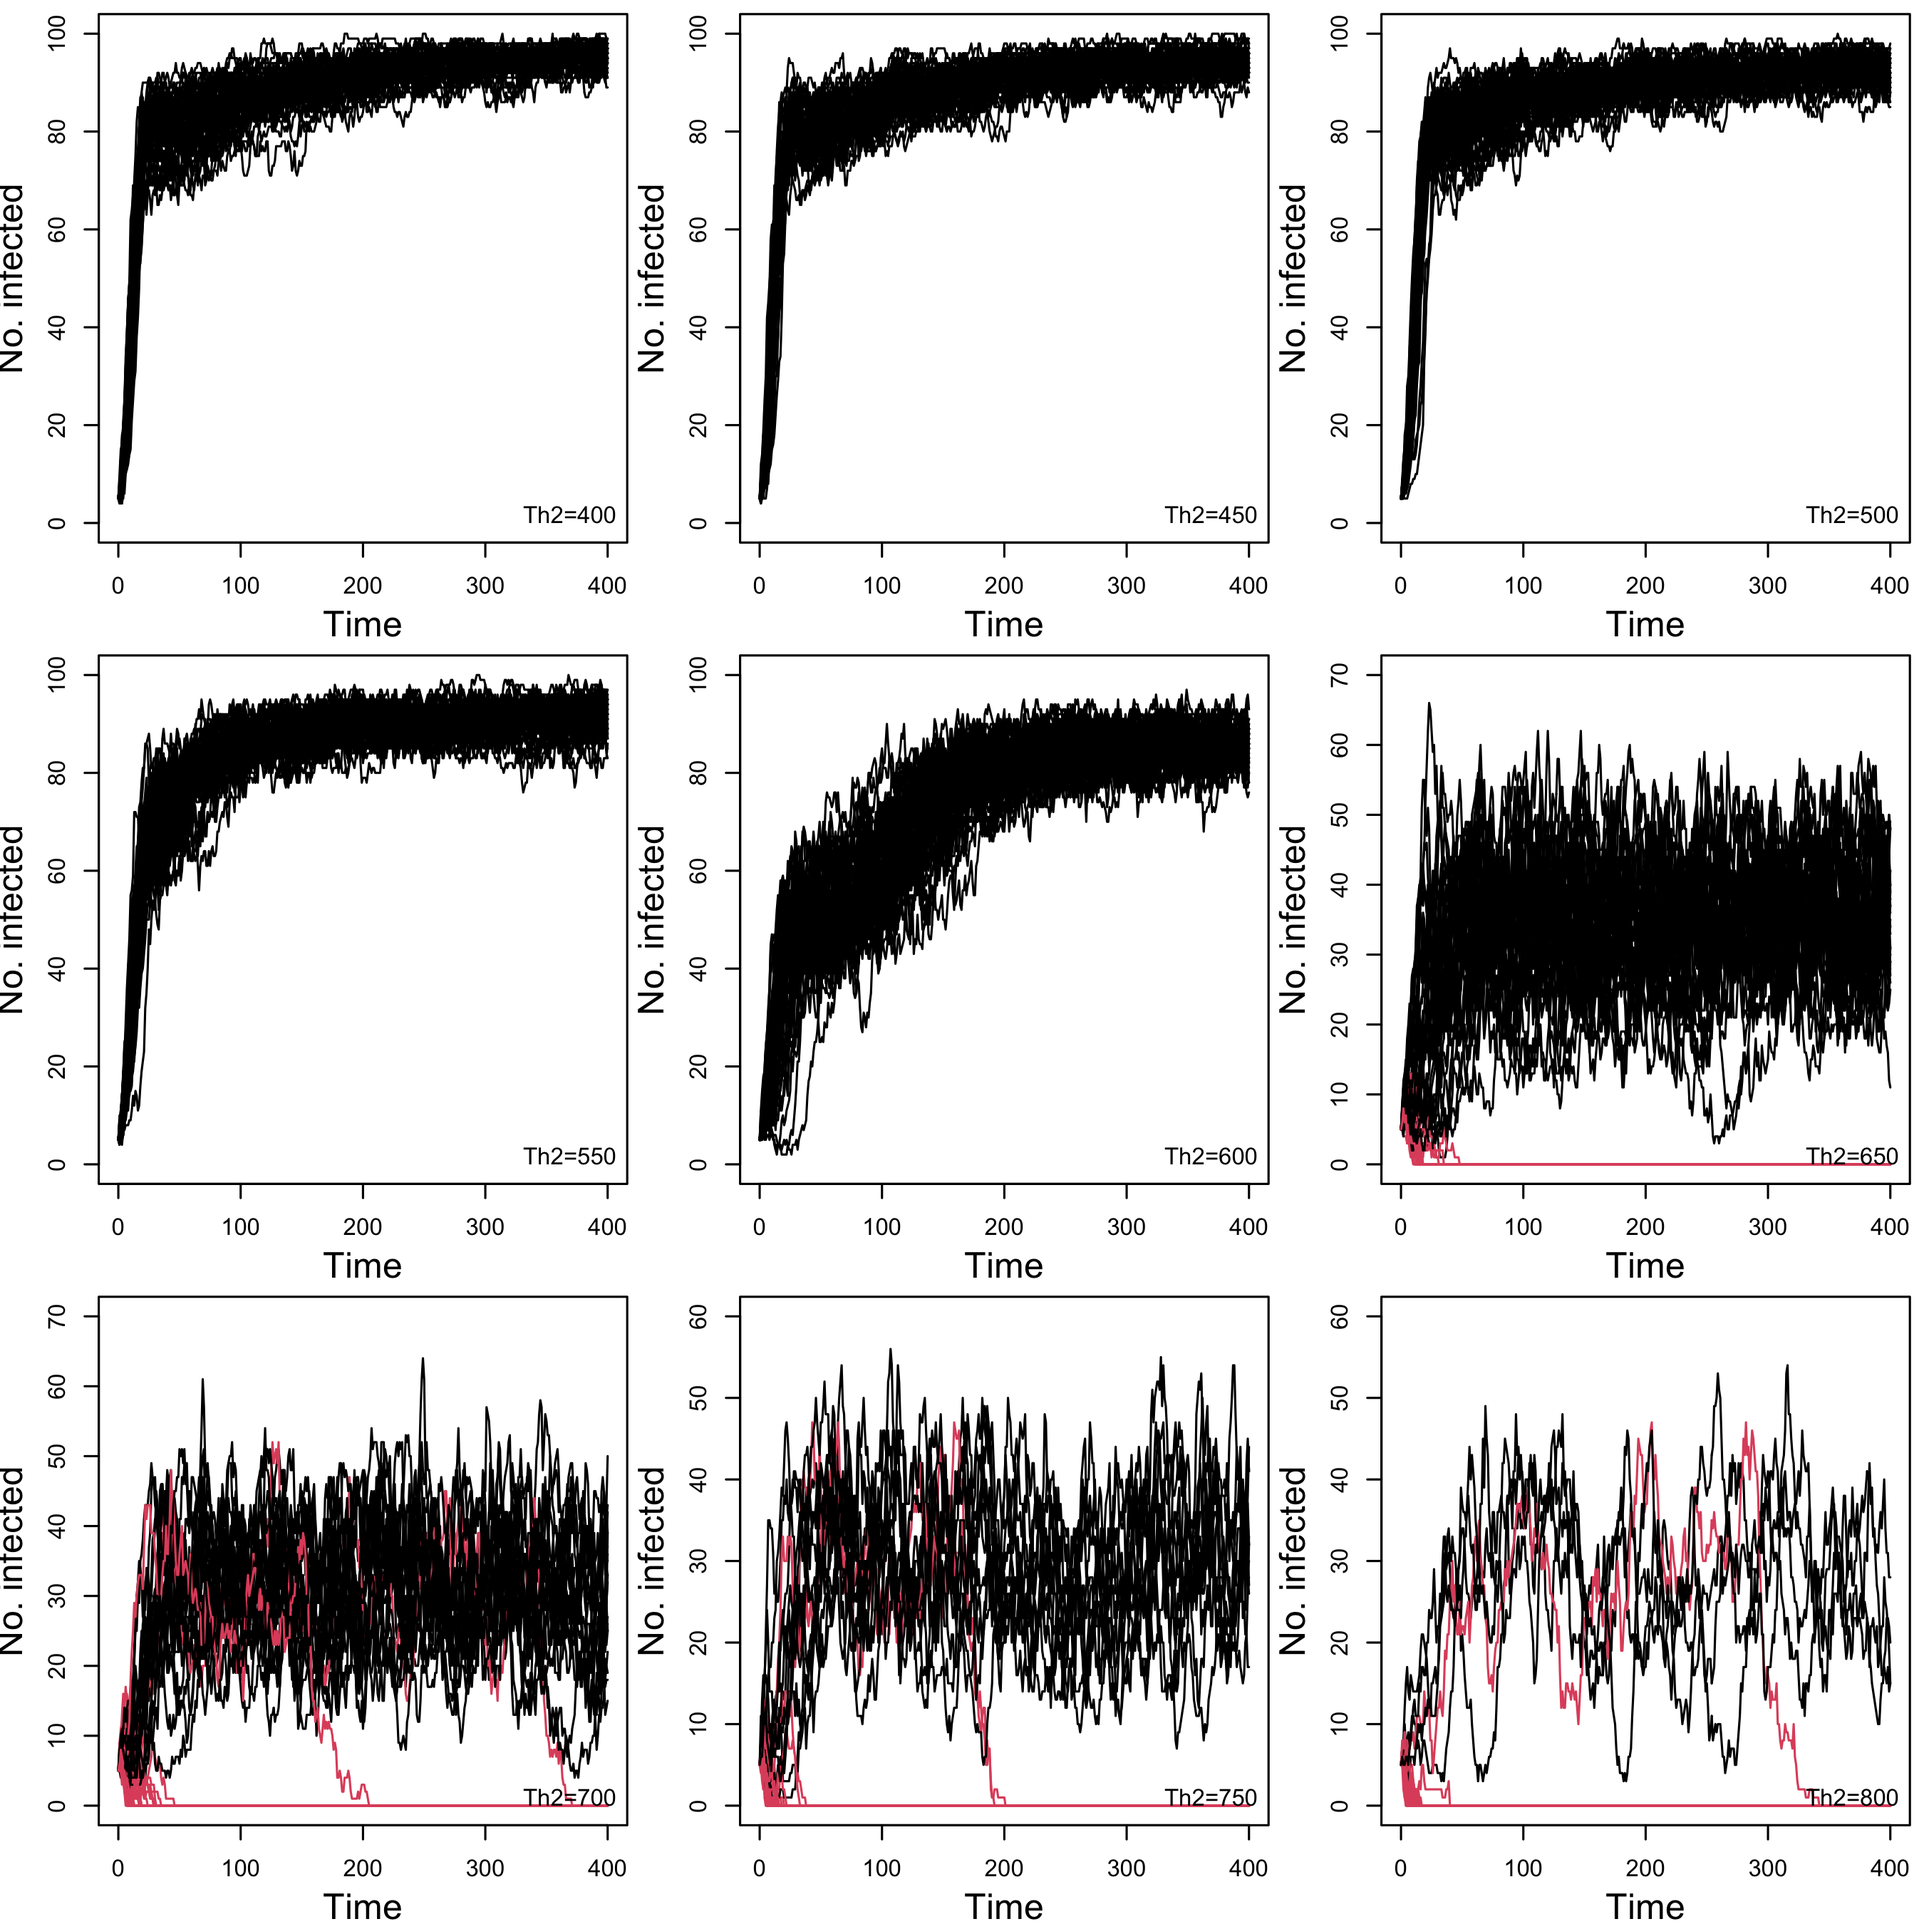
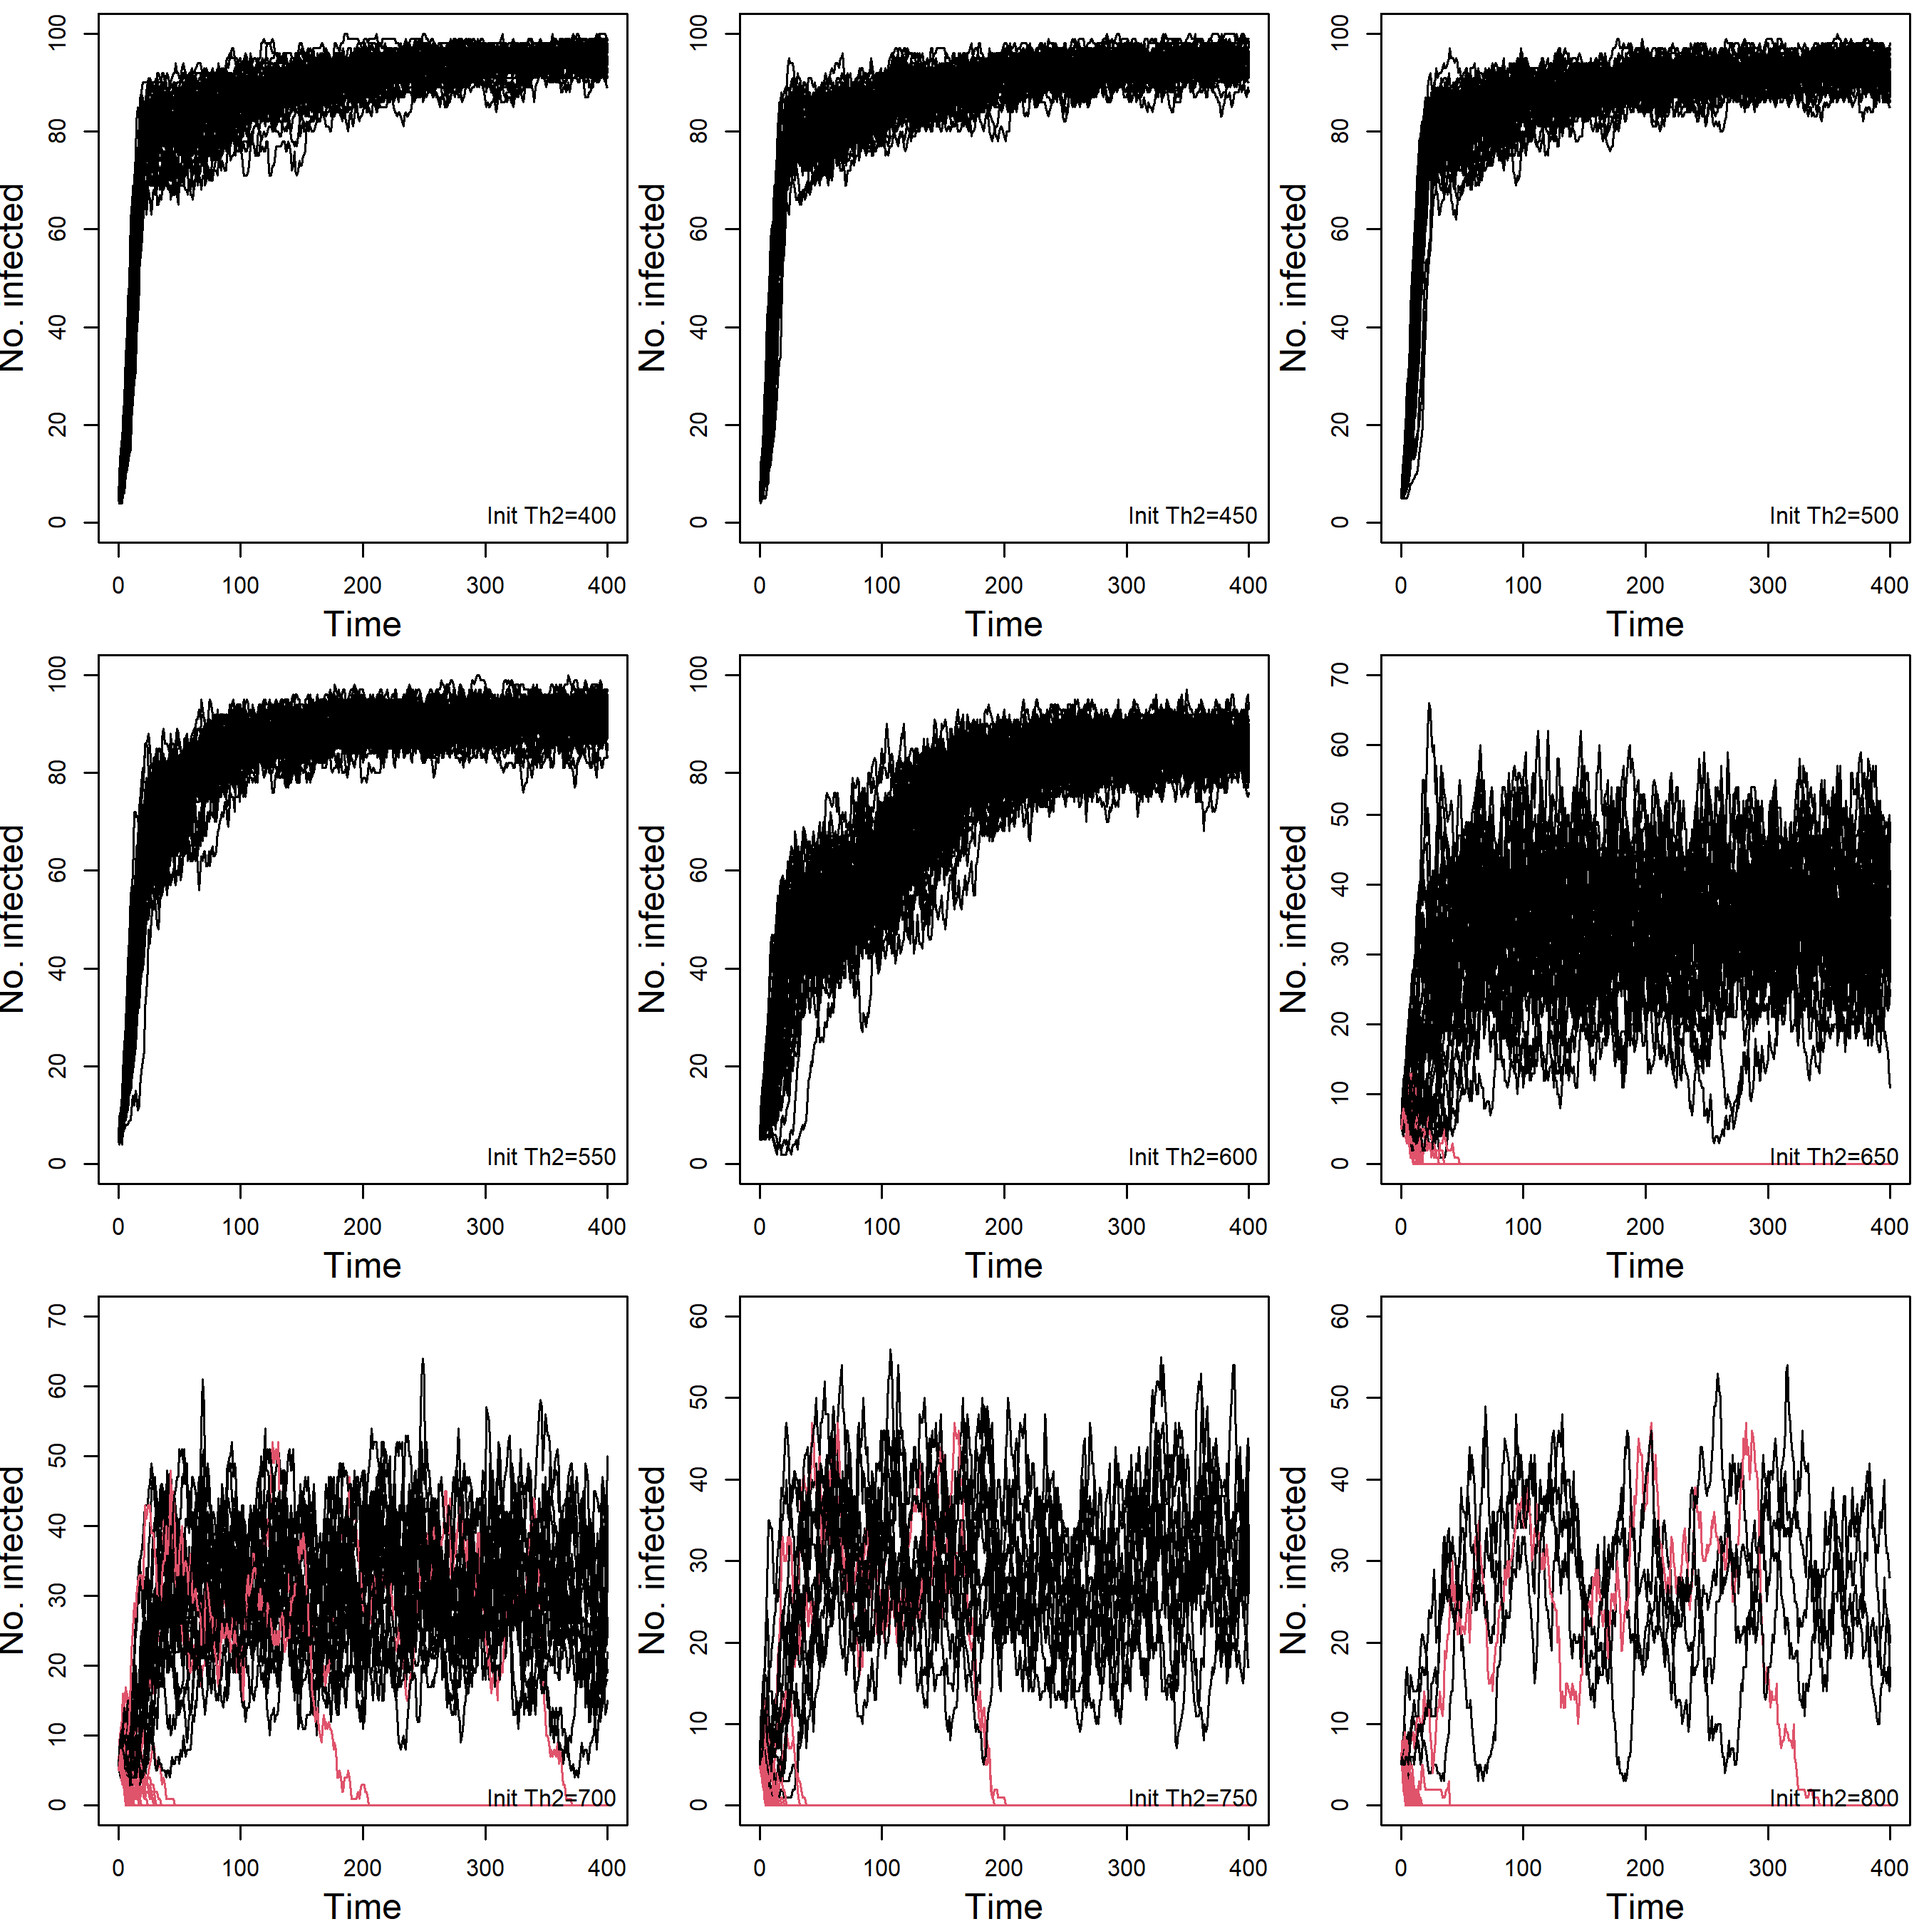
Added 50:50 bias plots; modified Cpp code to properly assign host IDs for tracking infection outcomes

diff --git a/nested_model_vary_Th2.cpp b/nested_model_vary_Th2.cpp
@@ -82,6 +82,7 @@ List nested_model_vary_Th2(NumericVector params) {
     Hosts(i,3) = rlnorm(1, mu, sigma)[0];
     Hosts(i,4) = i; // individual ID for tracking through time
   }
+  int nextID = S+I;
   
   // initialize time
   double t = 0.0; 
@@ -230,7 +231,8 @@ List nested_model_vary_Th2(NumericVector params) {
       Hosts(Hosts.nrow()-1,1) = 0; // initial Th2
       Hosts(Hosts.nrow()-1,2) = 0; // initial P
       Hosts(Hosts.nrow()-1,3) = 0; // initial v
-      Hosts(Hosts.nrow()-1,4) = Hosts.nrow()-1; // ID
+      Hosts(Hosts.nrow()-1,4) = nextID; // ID
+      nextID += 1; // increment ID
       S += 1;
     }
     // Infection
